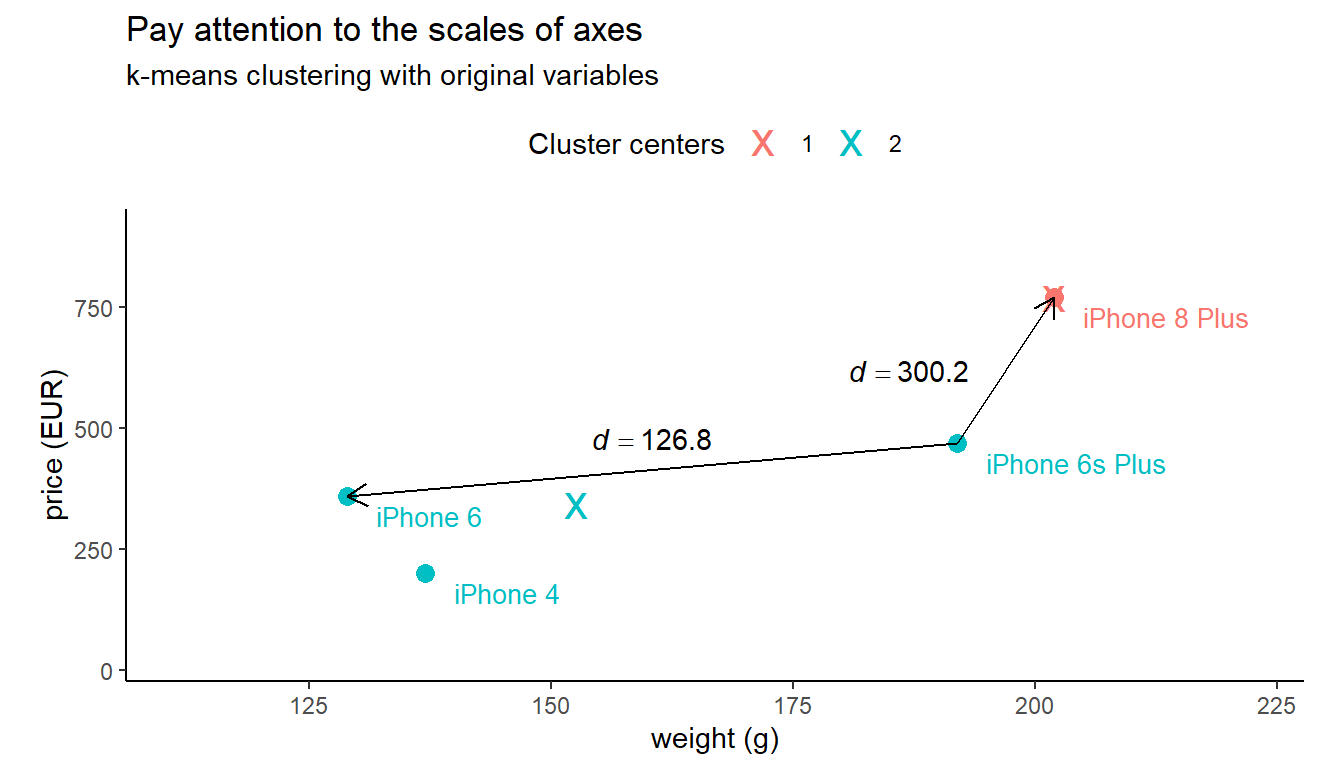
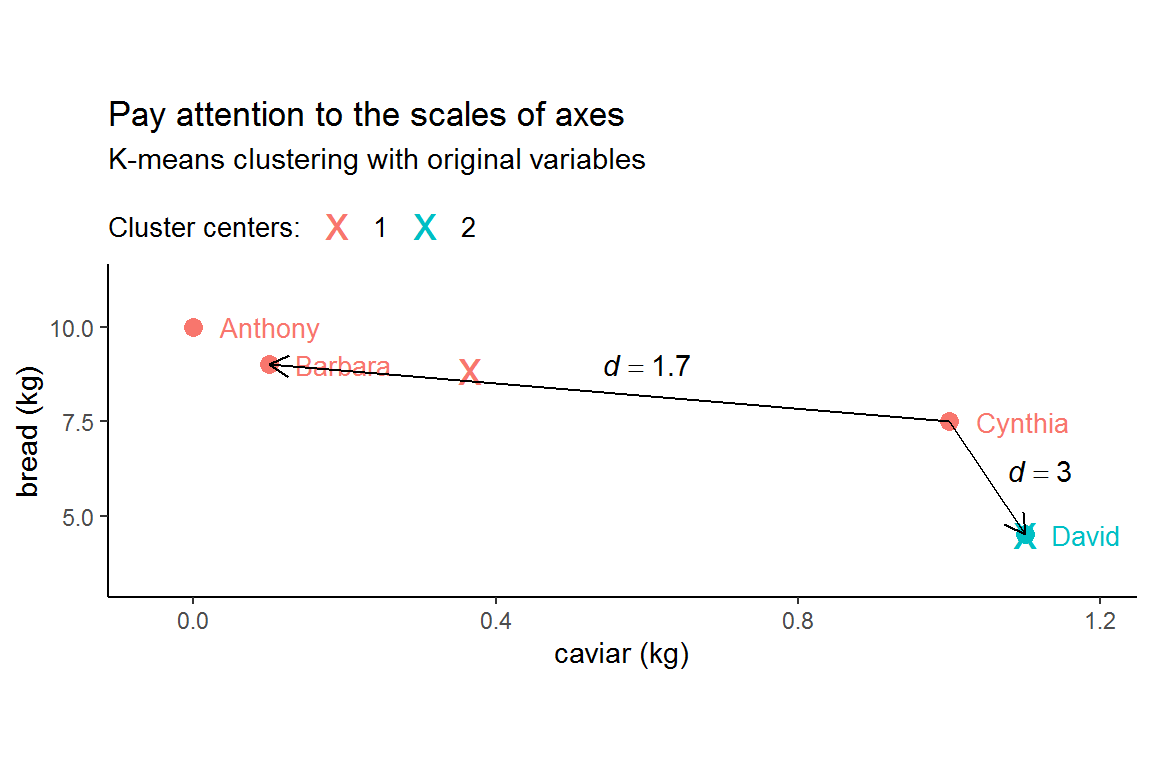
Change from phones to groceries.

diff --git a/content/post/2019-07-27-effect-of-not-standardizing-variables-in-k-means-clustering.html b/content/post/2019-07-27-effect-of-not-standardizing-variables-in-k-means-clustering.html
@@ -1,7 +1,7 @@
 ---
 title: Effect of (not) standardizing variables in k-means clustering
 author: Dmitrijs Kass
-date: '2019-07-27'
+date: '2019-08-25'
 slug: effect-of-not-standardizing-variables-in-k-means-clustering
 categories:
   - clustering
@@ -26,7 +26,7 @@ bibliography: effect-of-not-standardizing-variables-in-k-means-clustering.bib
 </ul>
 </div>
 
-<p>The process of clustering usually involves variable standardization. This post illustrates the effect of this important data pre-processing step on the result of k-means clustering using a small data set of iPhones, with <a href="https://www.r-project.org/">R</a>.</p>
+<p>The process of clustering usually involves variable standardization. This post illustrates the effect of this important data pre-processing step on the result of k-means clustering with <a href="https://www.r-project.org/">R</a> using a small data set of groceries shopping.</p>
 <hr />
 <div id="clustering-distances-k-means" class="section level1">
 <h1>Clustering, distances, k-means</h1>
@@ -45,119 +45,104 @@ For example, if we are given two points with coordinates (1, 2) and (4, 6) then 
 </div>
 <div id="surprise" class="section level1">
 <h1>Surprise</h1>
-<p>Imagine you have observed prices and weights of four iPhone models (available <a href="/post/2019-07-27-effect-of-not-standardizing-variables-in-k-means-clustering_files/iphone_dataset.csv">here</a>):</p>
+<p>Imagine you have a purchasing history of customers in a local shop. You would like to cluster them into groups with similar purchasing habits to target them later with different offers and marketing materials. For simplicity, you pick only four customers and their history of purchasing caviar and bread during the last month. Purchases of both products are measured in kilograms (data available <a href="/post/2019-07-27-effect-of-not-standardizing-variables-in-k-means-clustering_files/groceries.csv">here</a>):</p>
 <pre class="r"><code># Attach packages.
 library(tidyverse)
-# Import phone data.
-phones_df &lt;- read_delim(file = &quot;iphone_dataset.csv&quot;, delim = &quot;;&quot;, skip = 2)</code></pre>
+# Import groceries data.
+groceries_df &lt;- read_delim(file = &quot;groceries.csv&quot;, delim = &quot;;&quot;)</code></pre>
 <table class="table table-condensed" style="width: auto !important; margin-left: auto; margin-right: auto;">
 <thead>
 <tr>
 <th style="text-align:left;">
-Brand
-</th>
-<th style="text-align:left;">
-Model
+Customer
 </th>
 <th style="text-align:right;">
-Price (EUR)
+Caviar (kg)
 </th>
 <th style="text-align:right;">
-Weight (g)
+Bread (kg)
 </th>
 </tr>
 </thead>
 <tbody>
 <tr>
 <td style="text-align:left;">
-Apple
-</td>
-<td style="text-align:left;">
-iPhone 4
+Anthony
 </td>
 <td style="text-align:right;">
-200
+0.0
 </td>
 <td style="text-align:right;">
-137
+10.0
 </td>
 </tr>
 <tr>
 <td style="text-align:left;">
-Apple
-</td>
-<td style="text-align:left;">
-iPhone 6
+Barbara
 </td>
 <td style="text-align:right;">
-360
+0.1
 </td>
 <td style="text-align:right;">
-129
+9.0
 </td>
 </tr>
 <tr>
 <td style="text-align:left;">
-Apple
-</td>
-<td style="text-align:left;">
-iPhone 6s Plus
+Cynthia
 </td>
 <td style="text-align:right;">
-470
+1.0
 </td>
 <td style="text-align:right;">
-192
+7.5
 </td>
 </tr>
 <tr>
 <td style="text-align:left;">
-Apple
-</td>
-<td style="text-align:left;">
-iPhone 8 Plus
+David
 </td>
 <td style="text-align:right;">
-770
+1.1
 </td>
 <td style="text-align:right;">
-202
+4.5
 </td>
 </tr>
 </tbody>
 </table>
-<p>The plot below depicts four iPhone models in two dimensions: price in euro and weight in grams. Please do a mental exercise and assign these four iPhone models into two clusters.</p>
-<p><img src="/post/2019-07-27-effect-of-not-standardizing-variables-in-k-means-clustering_files/figure-html/plot_surprise_1_question-1.png" width="624" style="display: block; margin: auto;" /></p>
+<p>The plot below depicts four selected customers in two dimensions: weight of caviar and bread purchased during the last month. Please do a mental exercise and assign these four customers into two clusters.</p>
+<p><img src="/post/2019-07-27-effect-of-not-standardizing-variables-in-k-means-clustering_files/figure-html/plot_surprise_1_question-1.png" width="576" style="display: block; margin: auto;" /></p>
 <p>Ready?</p>
-<p>Did you assign iPhone 6 and 4 into one cluster and iPhone 8 Plus and 6s Plus into another? That’s not what k-means would do without standardizing the variables.</p>
+<p>Did you assign Anthony with Barbara into one cluster and Cynthia with David into another? That’s not what k-means would do without standardizing the variables.</p>
 </div>
 <div id="original-variables" class="section level1">
 <h1>Original variables</h1>
 <p>Let’s check by performing k-means with <span class="math inline">\(k=2\)</span>.</p>
 <pre class="r"><code># Data for clustering.
-phones_cl &lt;- phones_df[c(&quot;price_eur&quot;, &quot;weight_g&quot;)]
+groceries_num &lt;- groceries_df[-1]
 # Reproducibility.
-set.seed(4)
+set.seed(1)
 # K-means with original variables.
-kmeans_orig &lt;- kmeans(phones_cl, centers = 2)</code></pre>
-<p>The result is plotted below with iPhone 8 Plus being alone in cluster 1 and all other phones in cluster 2. Hopefully, you are surprised.</p>
-<p><img src="/post/2019-07-27-effect-of-not-standardizing-variables-in-k-means-clustering_files/figure-html/plot_kmeans_orig-1.png" width="672" style="display: block; margin: auto;" /></p>
-<p>The catch is in the visualization - notice that x and y axes have different scales. One unit on the x axis (i.e. 1 gram) corresponds to exactly 20 units on the y axis (i.e. 20 euro). It means that the Euclidean distance between 125 and 150 grams (difference of 25 grams) on your screen exactly equals the distance between 250 and 750 euros (difference of 500 euros). As a result, diagonal distances are hard to evaluate visually. It seems that iPhone 6s Plus is significantly closer to iPhone 8 Plus than to iPhone 6. But it’s an illusion. Note the distances on the plot below:</p>
-<p><img src="/post/2019-07-27-effect-of-not-standardizing-variables-in-k-means-clustering_files/figure-html/plot_kmeans_orig_with_dist-1.png" width="672" style="display: block; margin: auto;" /></p>
+kmeans_orig &lt;- kmeans(groceries_num, centers = 2)</code></pre>
+<p>The result is plotted below with David being alone in cluster 2 and all other customers in cluster 1. Hopefully, you are surprised.</p>
+<p><img src="/post/2019-07-27-effect-of-not-standardizing-variables-in-k-means-clustering_files/figure-html/plot_kmeans_orig-1.png" width="576" style="display: block; margin: auto;" /></p>
+<p>The catch is in the visualization - notice that x and y axes have different scales. The length of one unit on the x axis (i.e. 1 kilo of caviar) is exactly 20 times shorter than the length of one unit on the y axis (i.e. 1 kilo of bread). As a result, diagonal distances are hard to evaluate visually. It seems that Cynthia is closer to David than to Barbara. But it’s an illusion. Note the distances on the plot below:</p>
+<p><img src="/post/2019-07-27-effect-of-not-standardizing-variables-in-k-means-clustering_files/figure-html/plot_kmeans_orig_with_dist-1.png" width="576" style="display: block; margin: auto;" /></p>
 <p>All pairwise Euclidean distances can be calculated with <code>dist()</code>:</p>
-<pre class="r"><code># Add rownames to see phone models in a distance matrix.
-phones_cl &lt;- as.data.frame(phones_cl)
-rownames(phones_cl) &lt;- phones_df$model
+<pre class="r"><code># Add rownames to see customer names in a distance matrix.
+groceries_num &lt;- as.data.frame(groceries_num)
+rownames(groceries_num) &lt;- groceries_df$customer
 # Euclidean distances.
-round(dist(phones_cl), 1)</code></pre>
-<pre><code>##                iPhone 4 iPhone 6 iPhone 6s Plus
-## iPhone 6          160.2                        
-## iPhone 6s Plus    275.5    126.8               
-## iPhone 8 Plus     573.7    416.4          300.2</code></pre>
-<p>If we re-plot the same data set while ensuring that one unit on the x-axis (i.e. 1 gram) has the same length as one unit on the y-axis (i.e. 1 euro), the k-means result is no longer a surprise:</p>
+round(dist(groceries_num), 1)</code></pre>
+<pre><code>##         Anthony Barbara Cynthia
+## Barbara     1.0                
+## Cynthia     2.7     1.7        
+## David       5.6     4.6     3.0</code></pre>
+<p>If we re-plot the same data set while ensuring that one unit on the x-axis (i.e. 1 kilo of caviar) has the same length as one unit on the y-axis (i.e. 1 kilo of bread), the k-means result is no longer a surprise:</p>
 <p><img src="/post/2019-07-27-effect-of-not-standardizing-variables-in-k-means-clustering_files/figure-html/plot_kmeans_orig_coord_equal-1.png" width="672" style="display: block; margin: auto;" /></p>
-<p>Now this clustering may look correct. However, acknowledge that if iPhone weights were instead recorded in milligrams (i.e. multiply current weight values with 1,000) then prices would no longer affect the clustering results. The weight would become the only variable affecting the clustering. <strong>In general, variables with higher variation have a higher impact on the Euclidean distance calculations and, as a result, clustering results.</strong></p>
-<p>So the results of clustering depend on the scales of measurements in the data set. We can resolve this problem by standardizing the data prior to the clustering.</p>
+<p>Now this clustering may look correct. However, acknowledge that caviar is a delicacy. In comparison with bread, it is consumed in considerably smaller amounts and it is priced considerably higher. Therefore, for the purpose of customer segmentation, a difference of 1 kilo of caviar is more important than 1 kilo of bread. A calculation of distances using original, or non-standardized, variables does not differentiate between caviar and bread, essentially assuming these two products are identical. <strong>To summarize, a higher variation in a variable with bread weights has a higher impact on the Euclidean distance calculations and, as a result, on clustering results.</strong></p>
+<p>So the results of clustering depend on the variation of variables in the data set. We can resolve this problem by standardizing the data prior to the clustering.</p>
 </div>
 <div id="standardized-variables" class="section level1">
 <h1>Standardized variables</h1>
@@ -169,27 +154,25 @@ round(dist(phones_cl), 1)</code></pre>
 <p>We can write a one-line function to perform range standardization:</p>
 <pre class="r"><code>standardize_range &lt;- function(x) {(x - min(x)) / (max(x) - min(x))}</code></pre>
 <p>Then apply our new function to each column:</p>
-<pre class="r"><code>phones_cl_scaled &lt;- apply(phones_cl, MARGIN = 2, FUN = standardize_range)
-phones_cl_scaled</code></pre>
-<pre><code>##                price_eur  weight_g
-## iPhone 4       0.0000000 0.1095890
-## iPhone 6       0.2807018 0.0000000
-## iPhone 6s Plus 0.4736842 0.8630137
-## iPhone 8 Plus  1.0000000 1.0000000</code></pre>
+<pre class="r"><code>groceries_num_scaled &lt;- apply(groceries_num, 
+                              MARGIN = 2, 
+                              FUN = standardize_range)
+groceries_num_scaled</code></pre>
+<pre><code>##          caviar_kg  bread_kg
+## Anthony 0.00000000 1.0000000
+## Barbara 0.09090909 0.8181818
+## Cynthia 0.90909091 0.5454545
+## David   1.00000000 0.0000000</code></pre>
 <p>Notice that each column now has a range of one.</p>
 <p>Repeat k-means clustering using <em>standardized</em> variables:</p>
 <pre class="r"><code>set.seed(1)
-kmeans_scaled &lt;- kmeans(phones_cl_scaled, centers = 2)</code></pre>
-<p>The results have changed: iPhone 4 and 6 are now in cluster 1 and iPhone 8 Plus and 6s Plus are in cluster 2.</p>
+kmeans_scaled &lt;- kmeans(groceries_num_scaled, centers = 2)</code></pre>
+<p>The results have changed: Anthony and Barbara are now in cluster 1 and Cynthia and David are in cluster 2.</p>
 <p><img src="/post/2019-07-27-effect-of-not-standardizing-variables-in-k-means-clustering_files/figure-html/plot_kmeans_scaled_standardized_measurements-1.png" width="672" style="display: block; margin: auto;" /></p>
-<!-- If you are interested, below are distances calculated from *standardized* units: -->
-<!-- ```{r echo = TRUE} -->
-<!-- round(dist(phones_cl_scaled), 1) -->
-<!-- ``` -->
 </div>
 <div id="results" class="section level1">
 <h1>Results</h1>
-<p>Below is the side-by-side illustration of the effect of variable standardization on k-means clustering. Clustering plotted on the left uses original variables; clustering on the right - standardized variables.</p>
+<p>Below is the side-by-side illustration of the effect of variable standardization on k-means clustering. Clustering plotted on the left uses original variables and does not differentiate between a kilo of caviar from a kilo of bread. Clustering plotted on the right uses standardized variables and takes into account the fact that caviar is a delicacy purchased in considerably smaller volumes than bread.</p>
 <p><img src="/post/2019-07-27-effect-of-not-standardizing-variables-in-k-means-clustering_files/figure-html/plot_kmeans_combined-1.png" width="672" style="display: block; margin: auto;" /></p>
 </div>
 <div id="conclusions" class="section level1">
